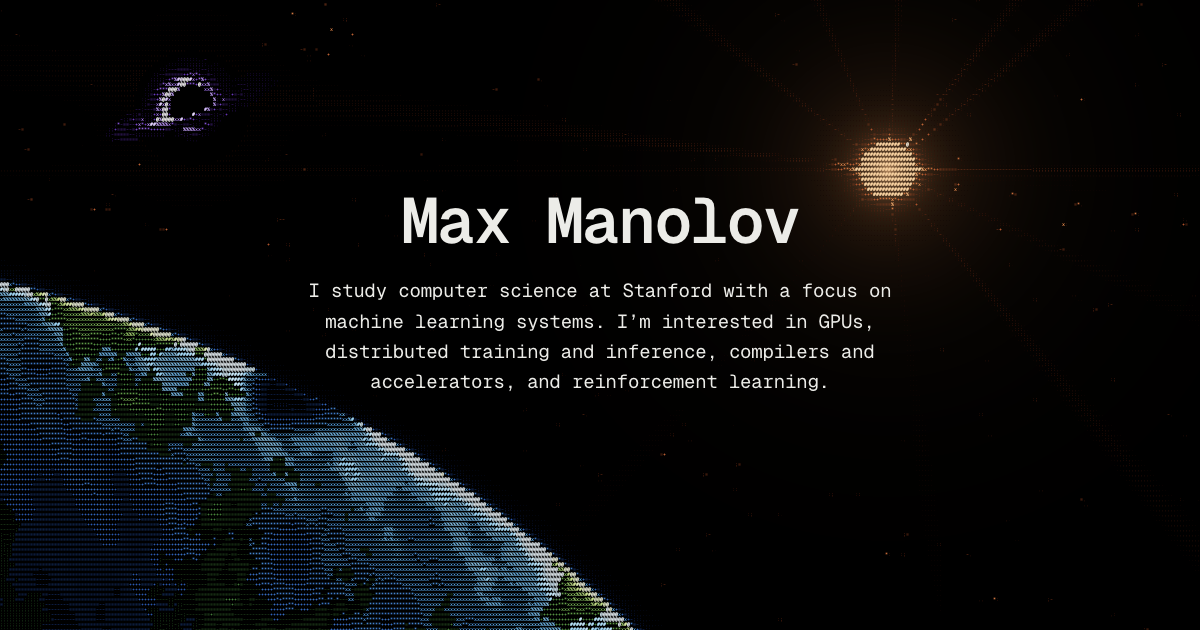
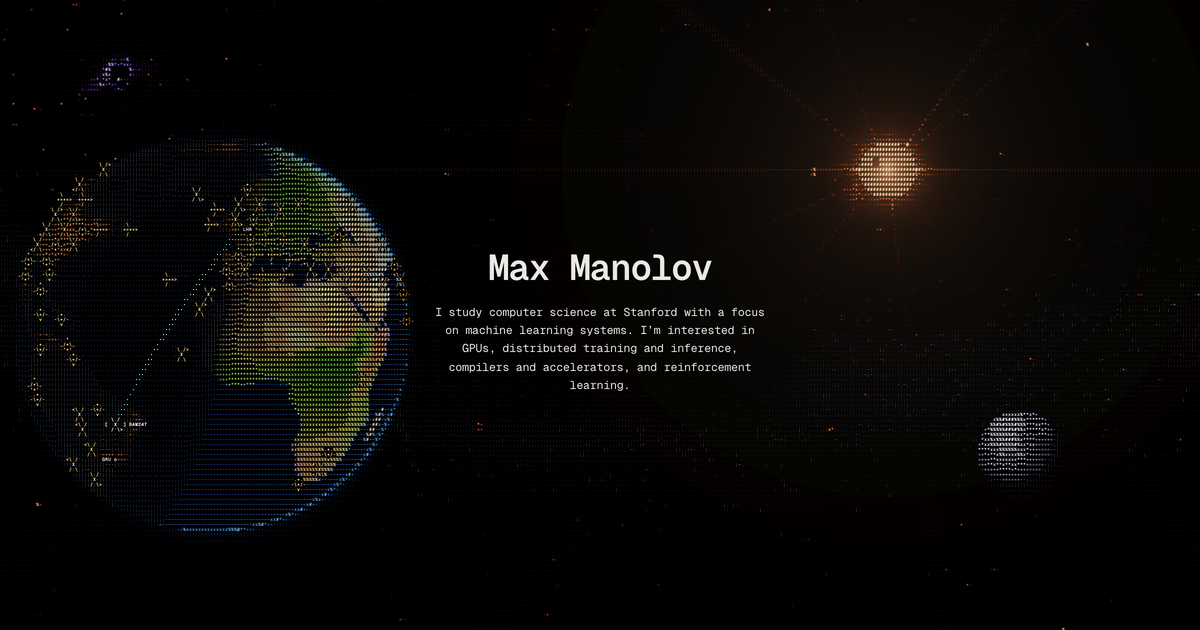
Update the link preview image

diff --git a/index.html b/index.html
@@ -17,10 +17,10 @@
       property="og:description"
       content="Max Manolov studies computer science at Stanford with a focus on machine learning systems."
     >
-    <meta property="og:image" content="https://maxmanolov.com/og.png">
+    <meta property="og:image" content="https://maxmanolov.com/og.png?v=2">
     <meta property="og:image:width" content="1200">
     <meta property="og:image:height" content="630">
-    <meta property="og:image:alt" content="Max Manolov's name over an ASCII drawing of a planet, a star and a black hole.">
+    <meta property="og:image:alt" content="Max Manolov's name beside an ASCII Earth with live flights over it, a star and a black hole.">
     <meta name="twitter:card" content="summary_large_image">
 
     <link rel="preconnect" href="https://fonts.googleapis.com">
